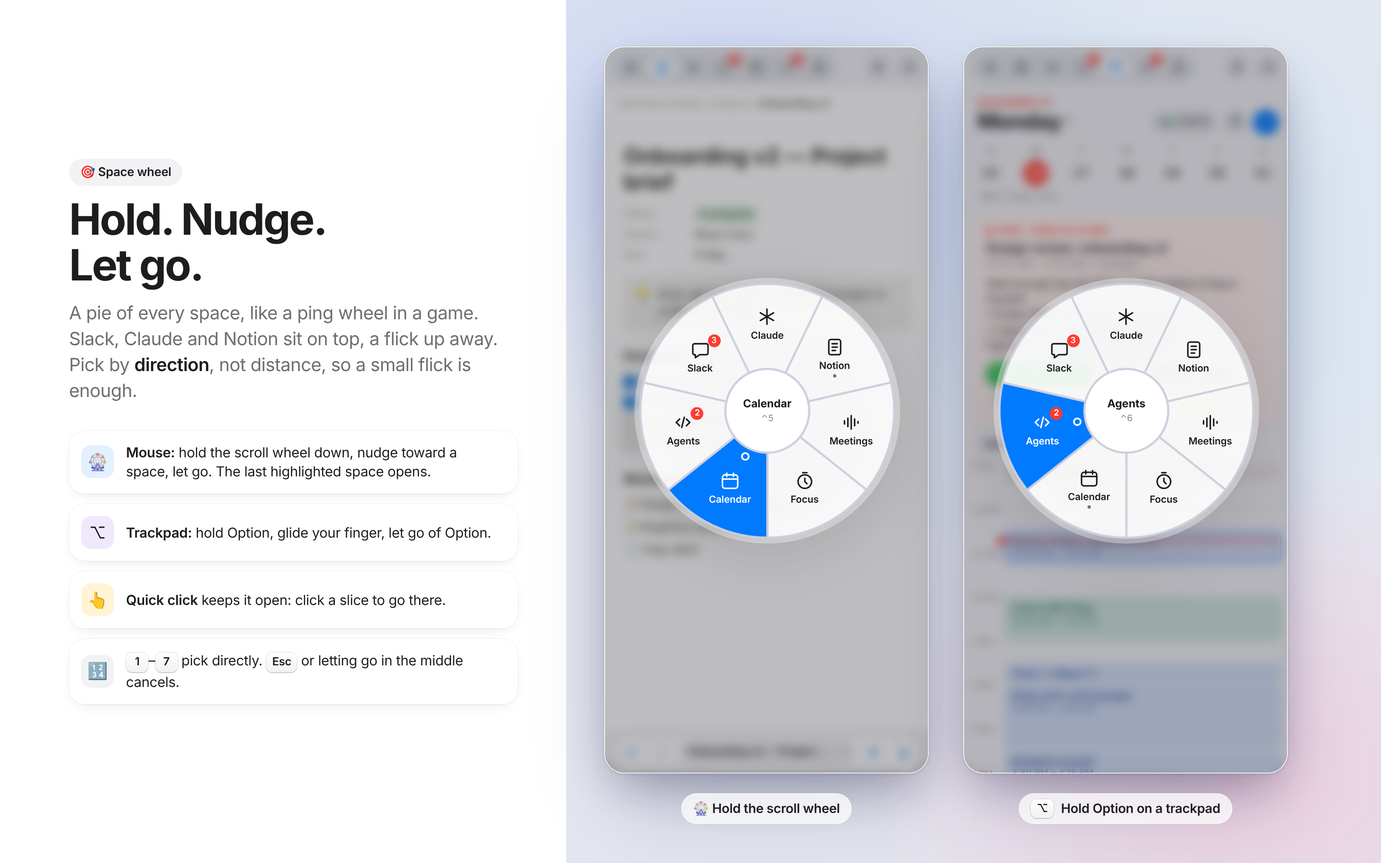
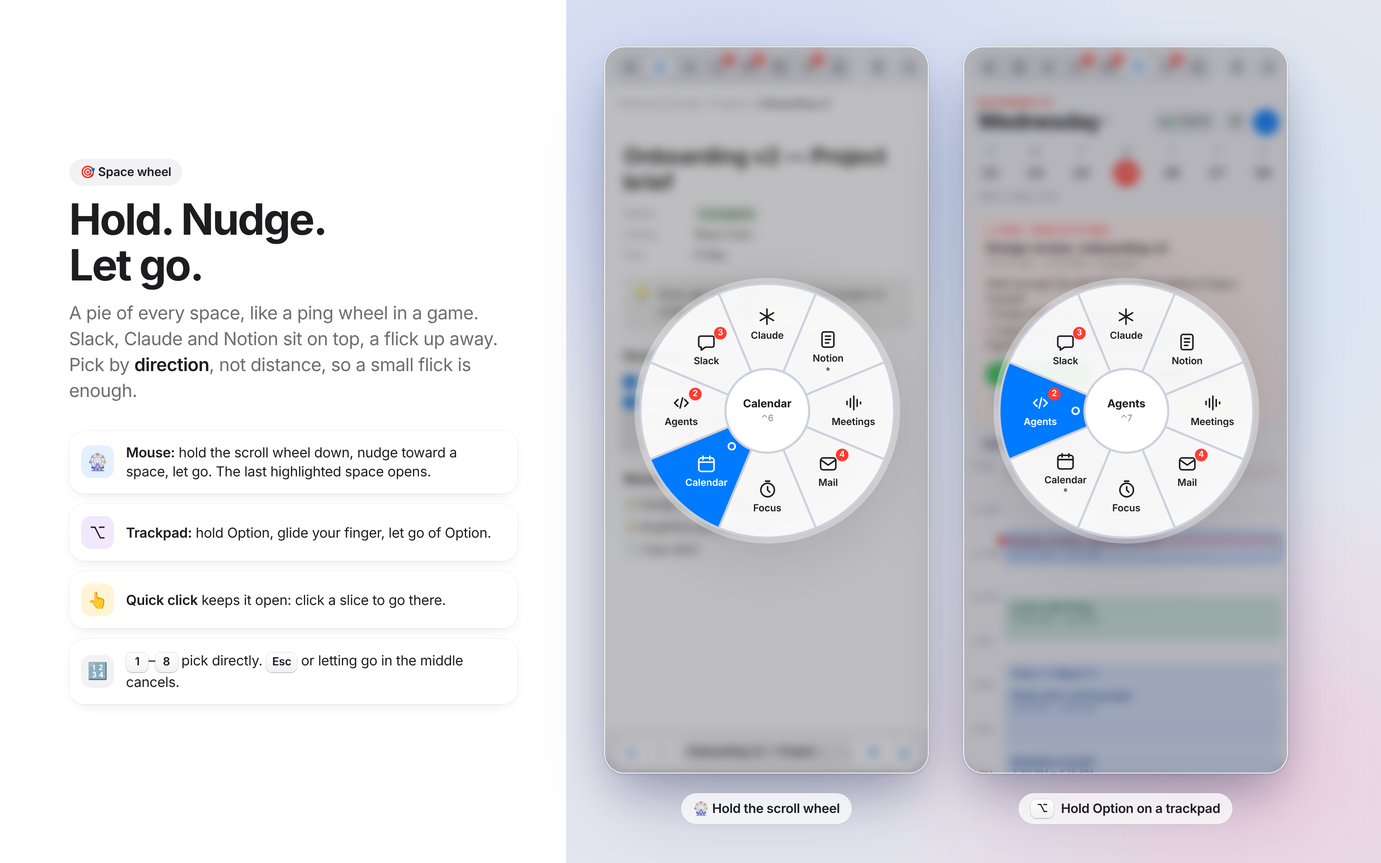
README: Mail screenshots, and every image redrawn with the Mail tab
- New docs/images/mail.png: the merged feed with an email's quick buttons,
  and an open email with Reply, Archive, Delete and Block.
- Every image regenerated, so the tab bar shows Mail, with shortcuts ⌃1–⌃8.
- spaces.png gains a Mail column; the hero lists Mail; the bento page gets
  a Mail tile and the privacy tile becomes a full-width band.
- The space wheel images keep pointing at Calendar and Agents now that Mail
  is a slice.
- The design mock has made-up Mail data and panel.html?space=mail views.

Claude-Session: https://claude.ai/code/session_016wir8nXE3xdpJtcP1hTtqw

diff --git a/docs/design/shots/bento.html b/docs/design/shots/bento.html
@@ -41,9 +41,10 @@
   .g-cal { background: linear-gradient(90deg, #2f7cf6, #36b6e8); }
   .g-agents { background: linear-gradient(90deg, #f0882b, #e8b33b); }
   .g-focus { background: linear-gradient(90deg, #e2553f, #f08a5d); }
+  .g-mail { background: linear-gradient(90deg, #1a8cff, #7fd3ff); }
   .g-wheel { background: linear-gradient(90deg, #0fa37f, #39c6a0); }
   .g-keys { background: linear-gradient(90deg, #5e5ce6, #9b8cff); }
-  .g-claude, .g-notion, .g-meet, .g-slack, .g-cal, .g-agents, .g-focus, .g-wheel, .g-keys { -webkit-background-clip: text; background-clip: text; color: transparent; }
+  .g-claude, .g-notion, .g-meet, .g-slack, .g-mail, .g-cal, .g-agents, .g-focus, .g-wheel, .g-keys { -webkit-background-clip: text; background-clip: text; color: transparent; }
 
   /* A cropped piece of a real Rail panel */
   .crop {
@@ -101,7 +102,7 @@
 <div class="page">
   <div class="head">
     <h1>Everything in Rail.</h1>
-    <p>Seven spaces in one slim panel on the edge of your Mac. Here’s what each one does.</p>
+    <p>Eight spaces in one slim panel on the edge of your Mac. Here’s what each one does.</p>
   </div>
 
   <div class="grid">
@@ -109,12 +110,13 @@
     <div class="t dark hero" style="grid-column: span 7; height: 600px;">
       <div class="mark"><div class="logo"></div></div>
       <h2>Your workday,<br><span>one swipe away.</span></h2>
-      <p>Claude, Notion, meetings, Slack, your calendar, your coding agents and a focus timer, <b>docked to the right edge of your screen</b>. No more tabs.</p>
+      <p>Claude, Notion, meetings, Slack, your email, your calendar, your coding agents and a focus timer, <b>docked to the right edge of your screen</b>. No more tabs.</p>
       <div class="apps">
         <span class="app"><i style="background:linear-gradient(160deg,#f6b38a,#d97757)"><svg width="24" height="24" viewBox="0 0 24 24" fill="none" stroke="#fff" stroke-width="2" stroke-linecap="round" stroke-linejoin="round"><path d="M12 3v18M4.2 7.5l15.6 9M4.2 16.5l15.6-9"/></svg></i>Claude</span>
         <span class="app"><i style="background:linear-gradient(160deg,#fff,#d8d8dc)"><svg width="24" height="24" viewBox="0 0 24 24" fill="none" stroke="#1d1d1f" stroke-width="2" stroke-linecap="round" stroke-linejoin="round"><rect x="5" y="3" width="14" height="18" rx="2.5"/><path d="M9 8h6M9 12h6M9 16h4"/></svg></i>Notion</span>
         <span class="app"><i style="background:linear-gradient(160deg,#c9a6ff,#8e5cf7)"><svg width="24" height="24" viewBox="0 0 24 24" fill="none" stroke="#fff" stroke-width="2" stroke-linecap="round" stroke-linejoin="round"><path d="M4 10v4M8 7v10M12 4v16M16 8v8M20 11v2"/></svg></i>Meetings</span>
         <span class="app"><i style="background:linear-gradient(160deg,#ff8db0,#e01e5a)"><svg width="24" height="24" viewBox="0 0 24 24" fill="none" stroke="#fff" stroke-width="2" stroke-linecap="round" stroke-linejoin="round"><path d="M5 5h14a2 2 0 0 1 2 2v9a2 2 0 0 1-2 2h-8l-5 3.5V18H5a2 2 0 0 1-2-2V7a2 2 0 0 1 2-2z"/></svg></i>Slack</span>
+        <span class="app"><i style="background:linear-gradient(160deg,#7fd3ff,#1a8cff)"><svg width="24" height="24" viewBox="0 0 24 24" fill="none" stroke="#fff" stroke-width="2" stroke-linecap="round" stroke-linejoin="round"><rect x="3" y="5" width="18" height="14" rx="3"/><path d="m3.5 7.5 8.5 6 8.5-6"/></svg></i>Mail</span>
         <span class="app"><i style="background:linear-gradient(160deg,#8fc4ff,#2f7cf6)"><svg width="24" height="24" viewBox="0 0 24 24" fill="none" stroke="#fff" stroke-width="2" stroke-linecap="round" stroke-linejoin="round"><rect x="3" y="5" width="18" height="16" rx="3"/><path d="M3 10h18M8 3v4M16 3v4"/></svg></i>Calendar</span>
         <span class="app"><i style="background:linear-gradient(160deg,#ffd27a,#f0882b)"><svg width="24" height="24" viewBox="0 0 24 24" fill="none" stroke="#fff" stroke-width="2" stroke-linecap="round" stroke-linejoin="round"><path d="M8 8l-4 4 4 4M16 8l4 4-4 4M13.5 6l-3 12"/></svg></i>Agents</span>
         <span class="app"><i style="background:linear-gradient(160deg,#ffab96,#e2553f)"><svg width="24" height="24" viewBox="0 0 24 24" fill="none" stroke="#fff" stroke-width="2" stroke-linecap="round" stroke-linejoin="round"><circle cx="12" cy="13" r="8"/><path d="M12 9v4l2.5 2.5M9.5 2.5h5"/></svg></i>Focus</span>
@@ -179,7 +181,7 @@
       <h2 class="s">Flick to any space.</h2>
       <p>Hold the middle mouse button, or <span class="key" style="height:24px;font-size:12px;padding:0 6px">⌥</span>, then nudge and let go.</p>
       <div class="crop flat" style="left:50%; margin-left:-170px; width:340px; top:212px; height:340px; border-radius:50%; background:#fff;">
-        <iframe src="../panel.html?space=notion&wheel=4" style="transform: scale(1.0); left:-22px; top:-260px;"></iframe>
+        <iframe src="../panel.html?space=notion&wheel=5" style="transform: scale(1.0); left:-22px; top:-260px;"></iframe>
       </div>
     </div>
 
@@ -190,12 +192,22 @@
       <div class="big"><span class="key">⌃</span><span class="key">`</span></div>
       <ul>
         <li><b>Show or hide Rail</b> from any app</li>
-        <li><span class="key">⌃1</span> to <span class="key">⌃7</span> jump to a space</li>
+        <li><span class="key">⌃1</span> to <span class="key">⌃8</span> jump to a space</li>
         <li><span class="key">⌃</span><span class="key">⌥</span><span class="key">←</span><span class="key">→</span> or a <b>two-finger swipe</b> to move between spaces</li>
         <li><span class="key">⇧</span><span class="key">Space</span> <b>Slack quick switcher</b></li>
         <li><span class="key">⌥</span> hold, or the <b>middle mouse button</b>, for the space wheel</li>
         <li><b>Pin</b> it above every window, or let it slide away</li>
       </ul>
+    </div>
+
+    <!-- Mail ----------------------------------------------------------------->
+    <div class="t" style="grid-column: span 4; height: 360px;">
+      <div class="eb"><span class="g-mail">Mail</span></div>
+      <h2 class="s">Every inbox, one feed.</h2>
+      <p>All your Gmail accounts. <b>Reply, Archive, Delete, Block</b>.</p>
+      <div class="crop flat" style="left:34px; right:34px; top:170px; height:200px;">
+        <iframe src="../panel.html?space=mail" style="transform: scale(1.0); left:0; top:-100px;"></iframe>
+      </div>
     </div>
 
     <!-- Claude --------------------------------------------------------------->
@@ -219,16 +231,18 @@
     </div>
 
     <!-- Privacy -------------------------------------------------------------->
-    <div class="t dark" style="grid-column: span 4; height: 360px;">
-      <svg class="lock" viewBox="0 0 56 56" aria-hidden="true">
+    <div class="t dark" style="grid-column: span 12; height: 190px; display: flex; flex-direction: row; align-items: center; justify-content: flex-start; text-align: left; gap: 28px; padding-top: 0; padding-bottom: 0;">
+      <svg class="lock" style="margin:0; flex:none;" viewBox="0 0 56 56" aria-hidden="true">
         <defs><linearGradient id="lk" x1="0" y1="0" x2="0" y2="1"><stop offset="0" stop-color="#f5f5f7"/><stop offset="1" stop-color="#8e8e93"/></linearGradient></defs>
         <path d="M18 25v-6a10 10 0 0 1 20 0v6" fill="none" stroke="url(#lk)" stroke-width="4.5" stroke-linecap="round"/>
         <rect x="12" y="24" width="32" height="26" rx="7" fill="url(#lk)"/>
         <circle cx="28" cy="36" r="3.2" fill="#000"/><rect x="26.6" y="37" width="2.8" height="6" rx="1.4" fill="#000"/>
       </svg>
-      <h2 class="s">Stays on your Mac.</h2>
-      <p>No analytics. Keys in your <b>Keychain</b>. Your accounts never leave your machine.</p>
-      <div class="chips"><span class="chip">🔐 Keychain-encrypted</span><span class="chip">🚫 No analytics</span><span class="chip">🏠 127.0.0.1 only</span><span class="chip">🔇 Silent Slack</span></div>
+      <div style="flex: 1;">
+        <h2 class="s">Stays on your Mac.</h2>
+        <p>No analytics. Keys and sign-ins in your <b>Keychain</b>. Your accounts never leave your machine.</p>
+      </div>
+      <div class="chips" style="margin:0; max-width: 520px; justify-content: flex-end;"><span class="chip">🔐 Keychain-encrypted</span><span class="chip">🚫 No analytics</span><span class="chip">🏠 127.0.0.1 only</span><span class="chip">🔇 Silent Slack and Mail</span><span class="chip">🖼 Email images off</span></div>
     </div>
   </div>
   <div class="foot">All names, companies and meetings shown are made up.</div>

diff --git a/docs/design/mock.ts b/docs/design/mock.ts
@@ -130,11 +130,54 @@ const agentSessions = [
   agentSession('a9', 'mobile-app', 'working', 'Searching for useAuth', 'VS Code', 3),
 ];
 
+// ---- Mail -----------------------------------------------------------------
+
+const H = 3600000;
+const WORK = 'maya@northwind.studio', HOME = 'maya.chen@gmail.com', SIDE = 'hello@paperkite.co';
+const thread = (account: string, id: string, from: string, fromEmail: string, subject: string, snippet: string, ago: number, unread: boolean, list = false, count = 1) =>
+  ({ key: `${account} ${id}`, account, id, from, fromEmail, subject, snippet, date: Date.now() - ago * H, unread, count, list });
+const mailThreads = [
+  thread(WORK, 't1', 'Dana Whitfield', 'dana@brightline.io', 'Timeline for the onboarding revamp', 'Thanks again for Tuesday. Could you send a rough timeline by Friday?', 0.6, true, false, 3),
+  thread(SIDE, 't2', 'Ledgerly', 'payouts@ledgerly.com', 'Your payout of $1,240.00 is on the way', 'A payout of $1,240.00 to your account ending in 4412 is on its way.', 1.4, true),
+  thread(HOME, 't3', 'Sam Okafor', 'sam.okafor@gmail.com', 'Dinner Sunday?', 'Lena and I are doing dinner Sunday around 7. Want to come?', 2.3, true),
+  thread(HOME, 't4', 'DealHunter Weekly', 'deals@dealhunter.shop', '72 hours only: 60% off everything you looked at', 'Your cart misses you. For the next 72 hours everything is 60% off.', 3.1, true, true),
+  thread(WORK, 't5', 'Theo Alvarez', 'theo@northwind.studio', 'Re: Pricing workshop notes', 'I cleaned up the notes from the workshop and dropped them in Notion.', 26, false, false, 2),
+  thread(SIDE, 't6', 'Growthly SEO', 'kevin@growthly-seo.net', 'Quick question about paperkite.co', 'I was looking at paperkite.co and noticed you’re missing out on traffic.', 27, false, true),
+  thread(WORK, 't7', 'Priya Natarajan', 'priya@northwind.studio', 'Final strings for the checklist', 'Attached are the final strings for the welcome checklist.', 30, false),
+  thread(HOME, 't8', 'Skyway Air', 'trips@skywayair.com', 'Your trip to Lisbon: check in now', 'Check-in is open for flight SK 214 to Lisbon on Thursday.', 74, false, true),
+];
+const mailSnap = {
+  hasClient: true,
+  builtIn: true,
+  accounts: [
+    { email: WORK, on: true, unread: 1, error: null, needsSignIn: false },
+    { email: HOME, on: true, unread: 2, error: null, needsSignIn: false },
+    { email: SIDE, on: true, unread: 1, error: null, needsSignIn: false },
+  ],
+  threads: mailThreads,
+  loading: false,
+  updatedAt: Date.now(),
+  error: null,
+};
+const mailDetail = (account: string, id: string) => {
+  const t = mailThreads.find((x) => x.id === id) ?? mailThreads[0];
+  const msg = (mid: string, from: string, fromEmail: string, text: string, ago: number, mine = false) =>
+    ({ id: mid, from, fromEmail, to: account, cc: '', date: Date.now() - ago * H, html: null, text, attachments: [] as { name: string; size: number }[], mine });
+  const messages = id === 't1'
+    ? [
+        msg('m1', 'Maya Chen', WORK, 'Sounds good, talk Tuesday.', 50, true),
+        msg('m2', 'Dana Whitfield', 'dana@brightline.io', 'Great, see you then.', 49),
+        { ...msg('m3', 'Dana Whitfield', 'dana@brightline.io', 'Hi Maya,\n\nThanks again for Tuesday. Could you send a rough timeline for the onboarding revamp by Friday? We mostly need to know when the shorter checklist could ship.\n\nIf it helps, we can push the empty-state work to the next phase.\n\nBest,\nDana', 0.6), attachments: [{ name: 'Onboarding v1 review.pdf', size: 240000 }] },
+      ]
+    : [msg('m9', t.from, t.fromEmail, t.snippet, 1)];
+  return { account, id, subject: t.subject, messages, unsubscribe: t.list, webUrl: 'https://mail.google.com' };
+};
+
 // ---- The stand-in bridge --------------------------------------------------
 
 const ok = (data: unknown) => Promise.resolve({ ok: true, data });
 const state = {
-  spaces: SPACES.map((id) => ({ id, name: NAMES[id], badge: id === 'slack' ? 3 : id === 'agents' ? 2 : 0 })),
+  spaces: SPACES.map((id) => ({ id, name: NAMES[id], badge: id === 'slack' ? 3 : id === 'agents' ? 2 : id === 'mail' ? 4 : 0 })),
   active: SPACES.indexOf(SPACE),
   pinned: false,
   collapsed: 'none',
@@ -166,7 +209,7 @@ const state = {
     const hover = Number(params.get('wheel'));
     const a = -Math.PI / 2 + hover * ((2 * Math.PI) / SPACES.length);
     // The slices in the app's order (src/main/main.ts, WHEEL_ORDER).
-    const order = ['claude', 'notion', 'meetings', 'focus', 'calendar', 'agents', 'slack'];
+    const order = ['claude', 'notion', 'meetings', 'mail', 'focus', 'calendar', 'agents', 'slack'];
     const slots = order.map((id) => SPACES.indexOf(id));
     setTimeout(() => cb({
       open: true, cx: 192, cy: 430, r: 150, spaces: slots.map((i) => ({ ...state.spaces[i], index: i })), active: slots.indexOf(state.active), hover,
@@ -175,6 +218,16 @@ const state = {
     }), 300);
     return () => {};
   },
+  mail: (req: { op: string; account?: string; id?: string }) => {
+    switch (req.op) {
+      case 'open': return ok(mailDetail(req.account!, req.id!));
+      case 'senderCount': return ok(3);
+      case 'blocked': return ok([{ account: HOME, email: 'promo@flashbuys.net', filterId: 'f1' }]);
+      case 'search': return ok(mailThreads.slice(0, 2));
+      default: return ok(mailSnap);
+    }
+  },
+  onMail: () => () => {},
   focus: () => Promise.resolve(focusSnap),
   onFocus: () => () => {},
   puzzle: () => ok({ id: 'demo', fen: 'r1bqkb1r/pppp1ppp/2n2n2/4p2Q/2B1P3/8/PPPP1PPP/RNB1K1NR w KQkq - 4 4', solution: ['h5f7'], rating: 1184, themes: ['mateIn1'], lastMove: 'g8f6' }),

diff --git a/docs/design/shots/spaces.html b/docs/design/shots/spaces.html
@@ -11,7 +11,7 @@
   .cap p { margin: 6px 0 0; color: var(--muted); font-size: 15px; line-height: 1.45; }
 </style></head><body>
 <div class="canvas">
-  <span class="pill">Seven spaces · swipe, press ⌃1–⌃7, or hold the scroll wheel</span>
+  <span class="pill">Eight spaces · swipe, press ⌃1–⌃8, or hold the scroll wheel</span>
   <h2 class="title">One panel, everything you check all day.</h2>
   <div class="row">
     <div class="col"><div class="frame"><div class="rail"><iframe src="../panel.html?space=claude"></iframe></div></div>
@@ -22,12 +22,14 @@
       <div class="cap"><div class="h">🎙 Meetings <span class="kbd">⌃3</span></div><p>Fireflies recaps, action items and live transcripts.</p></div></div>
     <div class="col"><div class="frame"><div class="rail"><iframe src="../panel.html?space=slack"></iframe></div></div>
       <div class="cap"><div class="h">💬 Slack <span class="kbd">⌃4</span></div><p>Quiet by design: no pings, no sounds. Just an unread count.</p></div></div>
+    <div class="col"><div class="frame"><div class="rail"><iframe src="../panel.html?space=mail"></iframe></div></div>
+      <div class="cap"><div class="h">✉ Mail <span class="kbd">⌃5</span></div><p>Every Gmail account in one feed. Reply, Archive, Delete, Block.</p></div></div>
     <div class="col"><div class="frame"><div class="rail"><iframe src="../panel.html?space=calendar"></iframe></div></div>
-      <div class="cap"><div class="h">📅 Calendar <span class="kbd">⌃5</span></div><p>Every Notion Calendar account in one day view.</p></div></div>
+      <div class="cap"><div class="h">📅 Calendar <span class="kbd">⌃6</span></div><p>Every Notion Calendar account in one day view.</p></div></div>
     <div class="col"><div class="frame"><div class="rail"><iframe src="../panel.html?space=agents"></iframe></div></div>
-      <div class="cap"><div class="h">🤖 Agents <span class="kbd">⌃6</span></div><p>Every Claude Code session as a buddy. Allow and answer from here.</p></div></div>
+      <div class="cap"><div class="h">🤖 Agents <span class="kbd">⌃7</span></div><p>Every Claude Code session as a buddy. Allow and answer from here.</p></div></div>
     <div class="col"><div class="frame"><div class="rail"><iframe src="../panel.html?space=focus"></iframe></div></div>
-      <div class="cap"><div class="h">🍅 Focus <span class="kbd">⌃7</span></div><p>Pomodoro timer, a streak grid, and Sudoku or chess for breaks.</p></div></div>
+      <div class="cap"><div class="h">🍅 Focus <span class="kbd">⌃8</span></div><p>Pomodoro timer, a streak grid, and Sudoku or chess for breaks.</p></div></div>
   </div>
 </div>
 </body></html>

diff --git a/docs/design/panel.tsx b/docs/design/panel.tsx
@@ -5,6 +5,7 @@
 //   focus:    &game=chess shows chess instead of Sudoku, &scroll=N scrolls down
 //   wheel:    &wheel=N opens the space wheel with slice N picked (slices clockwise from the top)
 //   slack:    &switcher=1 shows the Shift+Space quick switcher, &switcher=2 with a search typed
+//   mail:     &sel=N selects the Nth email (its quick buttons show), &open=N opens it, &sheet=reply|block opens that sheet
 import { SPACE } from './mock';
 import { useEffect, useRef } from 'react';
 import { SWITCHER_CSS, SWITCHER_LIGHT, SWITCHER_ICON as IC } from '../../src/preload/slackSwitcher';
@@ -18,6 +19,7 @@ import { Calendar } from '../../src/renderer/Calendar';
 import { Focus } from '../../src/renderer/Focus';
 import { Wheel } from '../../src/renderer/Wheel';
 import { Agents } from '../../src/renderer/Agents';
+import { Mail } from '../../src/renderer/Mail';
 
 const q = new URLSearchParams(location.search);
 
@@ -175,6 +177,14 @@ function Body() {
       if (q.get('sweep') === '2') window.dispatchEvent(new PointerEvent('pointerup', { clientX: x, clientY: yAt(14.45) }));
     }, 900);
     if (SPACE === 'meetings' && q.get('open')) click('.mhead', undefined, 500);
+    if (SPACE === 'mail') {
+      const key = (k: string) => window.dispatchEvent(new KeyboardEvent('keydown', { key: k }));
+      const n = Number(q.get('open') ?? q.get('sel') ?? 0);
+      for (let i = 0; i < n; i++) setTimeout(() => key('j'), 400 + i * 60);
+      if (q.get('open')) setTimeout(() => key('Enter'), 500 + n * 60);
+      const sheet = q.get('sheet');
+      if (sheet) setTimeout(() => key(sheet === 'block' ? 'b' : 'r'), 900 + n * 60);
+    }
     if (SPACE === 'focus' && q.get('game') === 'chess') click('button, [role=tab], span, div', 'Chess puzzles', 500);
     const scroll = Number(q.get('scroll') ?? 0);
     if (scroll) setTimeout(() => document.querySelector('.focus, .cal-scroll, .mscroll')?.scrollBy(0, scroll), 900);
@@ -186,6 +196,7 @@ function Body() {
     case 'meetings': return <Meetings />;
     case 'focus': return <Focus />;
     case 'agents': return <Agents />;
+    case 'mail': return <Mail />;
     default: return <Calendar />;
   }
 }

diff --git a/docs/design/shots/wheel.html b/docs/design/shots/wheel.html
@@ -8,16 +8,16 @@
       <div class="callout bg-blue"><span class="ic">🎡</span><div><b>Mouse:</b> hold the scroll wheel down, nudge toward a space, let go. The last highlighted space opens.</div></div>
       <div class="callout bg-purple"><span class="ic">⌥</span><div><b>Trackpad:</b> hold Option, glide your finger, let go of Option.</div></div>
       <div class="callout bg-yellow"><span class="ic">👆</span><div><b>Quick click</b> keeps it open: click a slice to go there.</div></div>
-      <div class="callout bg-gray"><span class="ic">🔢</span><div><span class="kbd">1</span>–<span class="kbd">7</span> pick directly. <span class="kbd">Esc</span> or letting go in the middle cancels.</div></div>
+      <div class="callout bg-gray"><span class="ic">🔢</span><div><span class="kbd">1</span>–<span class="kbd">8</span> pick directly. <span class="kbd">Esc</span> or letting go in the middle cancels.</div></div>
     </div>
   </div>
   <div class="stage sand dots-bg">
     <div class="shot">
-      <div class="rail"><iframe src="../panel.html?space=notion&wheel=4"></iframe></div>
+      <div class="rail"><iframe src="../panel.html?space=notion&wheel=5"></iframe></div>
       <div class="cap">🎡 Hold the scroll wheel</div>
     </div>
     <div class="shot">
-      <div class="rail"><iframe src="../panel.html?space=calendar&wheel=5&via=key"></iframe></div>
+      <div class="rail"><iframe src="../panel.html?space=calendar&wheel=6&via=key"></iframe></div>
       <div class="cap"><span class="kbd">⌥</span> Hold Option on a trackpad</div>
     </div>
   </div>

diff --git a/docs/design/shots/mail.html b/docs/design/shots/mail.html
@@ -1,0 +1,17 @@
+<!doctype html><html><head><meta charset="utf-8"><link rel="stylesheet" href="style.css"><link rel="stylesheet" href="feature.css"></head><body>
+<div class="canvas">
+  <div>
+    <span class="pill">✉ Mail · ⌃5</span>
+    <h2 class="title">Every inbox.<br>One feed.<br>Four buttons.</h2>
+    <p class="lede">Sign in to all your <b>Gmail</b> accounts and they land in one list, newest first. Tap an account to see only that one.</p>
+    <div class="list">
+      <div class="callout bg-blue"><span class="ic">↩</span><div><b>Reply, Archive, Delete, Block</b> on every email. Replies always go out from the right address.</div></div>
+      <div class="callout bg-red"><span class="ic">🚫</span><div><b>Block</b> sends a sender to Trash for good, on your phone too, and can unsubscribe you.</div></div>
+      <div class="callout bg-green"><span class="ic">🔕</span><div><b>Silent.</b> No pings, just a count on the Mail tab. Images stay off until you want them.</div></div>
+    </div>
+  </div>
+  <div class="stage sand dots-bg">
+    <div class="rail"><iframe src="../panel.html?space=mail&sel=2"></iframe></div>
+    <div class="rail"><iframe src="../panel.html?space=mail&open=1"></iframe></div>
+  </div>
+</div></body></html>

diff --git a/docs/design/shots/hero.html b/docs/design/shots/hero.html
@@ -23,9 +23,10 @@
       <span class="sp bg-gray">📓 Notion <span class="kbd">⌃2</span></span>
       <span class="sp bg-purple">🎙 Meetings <span class="kbd">⌃3</span></span>
       <span class="sp bg-pink">💬 Slack <span class="kbd">⌃4</span></span>
-      <span class="sp bg-blue">📅 Calendar <span class="kbd">⌃5</span></span>
-      <span class="sp bg-yellow">🤖 Agents <span class="kbd">⌃6</span></span>
-      <span class="sp bg-green">🍅 Focus <span class="kbd">⌃7</span></span>
+      <span class="sp bg-red">✉ Mail <span class="kbd">⌃5</span></span>
+      <span class="sp bg-blue">📅 Calendar <span class="kbd">⌃6</span></span>
+      <span class="sp bg-yellow">🤖 Agents <span class="kbd">⌃7</span></span>
+      <span class="sp bg-green">🍅 Focus <span class="kbd">⌃8</span></span>
     </div>
     <p style="margin-top:30px;font-size:15px;color:var(--muted)">Show or hide it anywhere with <span class="kbd">⌃`</span></p>
   </div>

diff --git a/docs/design/shots/calendar.html b/docs/design/shots/calendar.html
@@ -1,7 +1,7 @@
 <!doctype html><html><head><meta charset="utf-8"><link rel="stylesheet" href="style.css"><link rel="stylesheet" href="feature.css"></head><body>
 <div class="canvas">
   <div>
-    <span class="pill">📅 Calendar · ⌃5</span>
+    <span class="pill">📅 Calendar · ⌃6</span>
     <h2 class="title">Every calendar.<br>One honest day.</h2>
     <p class="lede">Rail reads <b>Notion Calendar</b>, so work and personal accounts land in a single midnight-to-midnight view.</p>
     <div class="list">

diff --git a/docs/design/shots/focus.html b/docs/design/shots/focus.html
@@ -1,7 +1,7 @@
 <!doctype html><html><head><meta charset="utf-8"><link rel="stylesheet" href="style.css"><link rel="stylesheet" href="feature.css"></head><body>
 <div class="canvas">
   <div>
-    <span class="pill">🍅 Focus · ⌃7</span>
+    <span class="pill">🍅 Focus · ⌃8</span>
     <h2 class="title">Focus up.<br>Goof off a little.</h2>
     <p class="lede">A <b>Pomodoro timer</b> that keeps running in any space, and a grid of every session you've finished.</p>
     <div class="list">

diff --git a/README.md b/README.md
@@ -1,8 +1,8 @@
-<img src="docs/images/hero.png" alt="Rail: a docked macOS side panel for Claude, Notion, Meetings, Slack, Calendar and Focus" width="100%">
+<img src="docs/images/hero.png" alt="Rail: a docked macOS side panel for Claude, Notion, Meetings, Slack, Mail, Calendar, Agents and Focus" width="100%">
 
 # Rail
 
-**Rail is a side panel that lives on the right edge of your Mac.** It keeps the tools you check all day (Claude, Notion, your meeting recaps, Slack, today's calendar and a focus timer) one keystroke away, without another browser tab or another app window.
+**Rail is a side panel that lives on the right edge of your Mac.** It keeps the tools you check all day (Claude, Notion, your meeting recaps, Slack, every Gmail inbox, today's calendar, your coding agents and a focus timer) one keystroke away, without another browser tab or another app window.
 
 It looks and feels like part of macOS: a frosted-glass panel floating just inside the edge of the screen, a tab bar of space symbols across the top, big titles, rounded lists and the system colors, in light and dark mode.
 
@@ -14,13 +14,13 @@ Press `⌃` `` ` `` anywhere to slide it in or out. Swipe with two fingers on th
 
 ## Everything at a glance
 
-<img src="docs/images/bento.png" alt="Every Rail feature on one page: the panel, Agents, Calendar, Meetings, the Slack quick switcher, Focus, the space wheel, keyboard shortcuts, Claude, Notion and privacy" width="100%">
+<img src="docs/images/bento.png" alt="Every Rail feature on one page: the panel, Agents, Calendar, Meetings, the Slack quick switcher, Focus, the space wheel, keyboard shortcuts, Mail, Claude, Notion and privacy" width="100%">
 
 ---
 
 ## Eight spaces, one panel
 
-<img src="docs/images/spaces.png" alt="The six spaces: Claude, Notion, Meetings, Slack, Calendar and Focus" width="100%">
+<img src="docs/images/spaces.png" alt="The eight spaces: Claude, Notion, Meetings, Slack, Mail, Calendar, Agents and Focus" width="100%">
 
 | | Space | Key | What it's for |
 | --- | --- | --- | --- |
@@ -47,6 +47,8 @@ Press `⌃` `` ` `` anywhere to slide it in or out. Swipe with two fingers on th
 - **A nudge** 5 minutes before each meeting. The Calendar tab counts down (`12m`, `now`).
 
 ## ✉ Mail
+
+<img src="docs/images/mail.png" alt="The Mail space: every Gmail account in one feed with quick buttons on an email, and an open email with Reply, Archive, Delete and Block" width="100%">
 
 - **Every inbox in one feed.** Sign in to as many Gmail and Google Workspace accounts as you like. Their inboxes merge into one list, newest first, grouped by day. A colored dot on each sender's picture shows which account it came to.
 - **Focus on one account.** The chips under the title (`All · Work · Personal…`) filter to one inbox, with its unread count. `1` is All, `2`–`9` are your accounts.
@@ -216,7 +218,7 @@ npm run dev
 - `src/main/config.ts`: settings that aren't secret (`config.json` in Rail's userData).
 - `src/main/secrets.ts`: Keychain-encrypted secrets.
 - `src/preload/`: `web.ts` for the sites (swipe, Slack silencing), `slackCompact.ts` and `slackSwitcher.ts` for Slack's narrow layout, huddle card and quick switcher, `shell.ts` for Rail's own UI (the `window.rail` bridge), `swipe.ts` for gesture detection.
-- `src/renderer/`: React UI for the top strip, the Notion bar, Meetings, Calendar and Focus.
+- `src/renderer/`: React UI for the top strip, the Notion bar, Meetings, Mail, Calendar, Agents and Focus.
 - `docs/design/`: how the images in this README are made (see below).
 
 ### Remaking the README images
@@ -230,7 +232,7 @@ npx vite --config docs/design/vite.config.mts
 In a second terminal:
 
 ```bash
-TZ=America/New_York DESIGN_WAIT=6000 npx electron docs/design/render.cjs docs/images hero=shots/hero.html@1600x900 spaces=shots/spaces.html@2300x980 calendar=shots/calendar.html@1600x1000 meetings=shots/meetings.html@1600x1000 focus=shots/focus.html@1600x1000 notion=shots/notion.html@1600x1000 wheel=shots/wheel.html@1600x1000 switcher=shots/switcher.html@1600x1000 bento=shots/bento.html@1600x2692
+TZ=America/New_York DESIGN_WAIT=6000 npx electron docs/design/render.cjs docs/images hero=shots/hero.html@1600x900 spaces=shots/spaces.html@2614x980 calendar=shots/calendar.html@1600x1000 meetings=shots/meetings.html@1600x1000 mail=shots/mail.html@1600x1000 focus=shots/focus.html@1600x1000 notion=shots/notion.html@1600x1000 wheel=shots/wheel.html@1600x1000 switcher=shots/switcher.html@1600x1000 bento=shots/bento.html@1600x2900
 ```
 
 Open `http://127.0.0.1:5181/panel.html?space=calendar` (or `meetings`, `agents`, `focus`, `notion`, `slack`, `claude`) to see a single panel.
